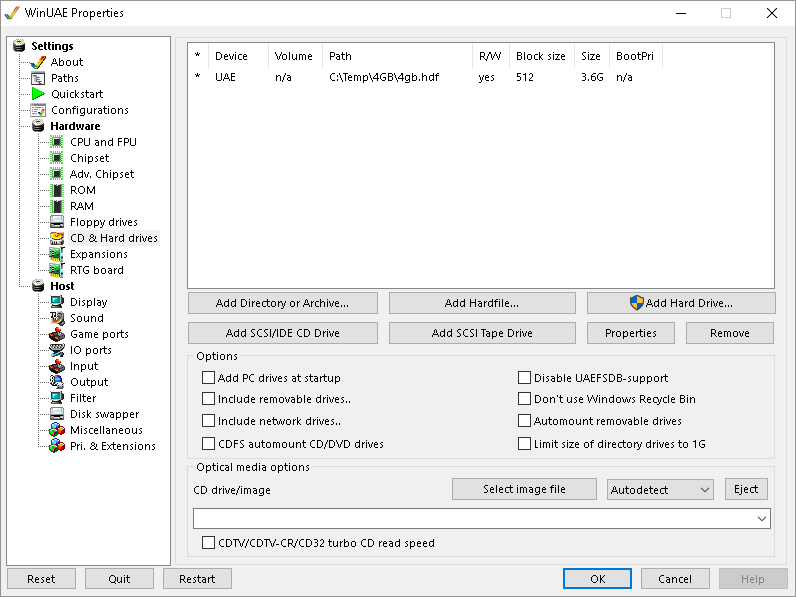
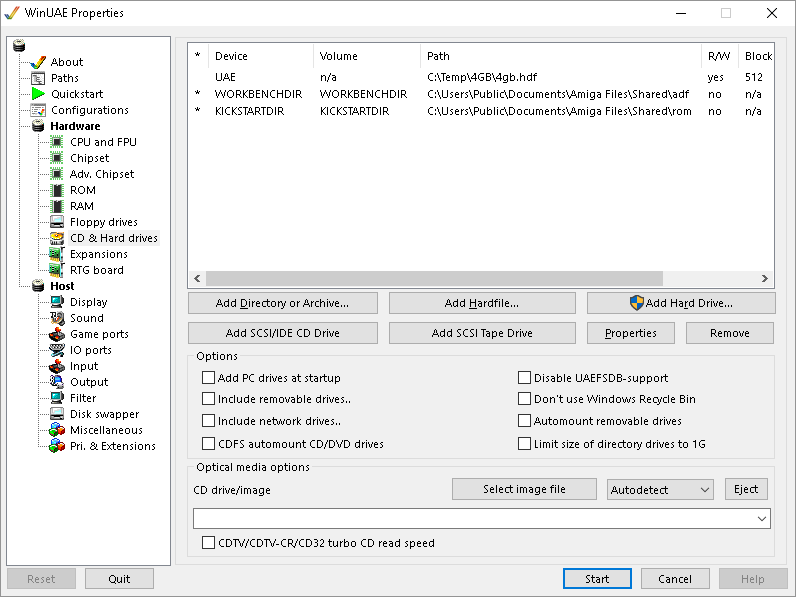
Updated configuring emulator for automated installation section

diff --git a/README.md b/README.md
@@ -518,31 +518,72 @@ Self install can be run in one of following ways:
 1. HstWB Installer Setup: Switch to test mode and run installer.
 2. WinUAE: Start WinUAE using an A1200 configuration with HDF files and/or directories added.
 3. UAE4ARM: Start UAE4ARM using an A1200 configuration with HDF files and/or directories added.
-4. Real Amiga: Use 'Writing an image to CF/SD card using Win32DiskImager' example 
+4. Real Amiga: Use 'Writing an image to CF/SD card using Win32DiskImager' example and skip automated installation, which is only for emulators.
 
-### Configuring emulator for automated installation
+### Configuring emulator for automated installation of Workbench and Kickstart roms
 
 Installation of Workbench and Kickstart roms can be automated, when running self install in an emulator.
 
 To automate installation of Workbench, add a harddrive as directory in the emulator containing Workbench adf files.
 The harddrive directory must have device name "WORKBENCHDIR" without quotes.
-If Cloanto Amiga Forever is installed, then the directory "c:\Users\Public\Documents\Amiga Files\Shared\adf\" can be used.
+Users with Cloanto Amiga Forever installed can use the directory "c:\Users\Public\Documents\Amiga Files\Shared\adf", which contains Workbench 3.1 adf files self install will identify and use.
 
-The example below describes how to do this using WinUAE.
+To automate installation of Kickstart roms for WHDLoad, add a harddrive as directory in the emulator containing Kickstart rom files.
+The harddrive directory must have device name "KICKSTARTDIR" without quotes.
+Users with Cloanto Amiga Forever installed can use the directory "c:\Users\Public\Documents\Amiga Files\Shared\rom", which contains Kickstart rom files self install will identify and use.
+
+The example below describes how to do configure WinUAE for automated installation, but can be done with other emulators like FS-UAE or UAE4ARM adding harddrive directories with correct device names "WORKBENCHDIR" and "KICKSTARTDIR".
 
 **1. Start WinUAE**
 
-Start WinUAE and use an A1200 configuration
+Configure harddrive directories in WinUAE one of following ways:
 
-Configure WinUAE harddrives in WinUAE with Workbench adf and Kickstart rom files
+1. Using HstWB Installer test mode press F12 after WinUAE is launched to configure harddrive directories.
+2. Manually start WinUAE use own configuration with image HDF files and/or harddrive directories added.
+
+**2. Configure harddrive directories**
+
+Click "CD & Hard drives".
 
 ![self_install_winuae_harddrives_start.png](screenshots/self_install_winuae_harddrives_start.png?raw=true)
 
+**3. Add WORKBENCHDIR harddrive directory**
+
+Click "Add Directory or Archive".
+
+Enter "WORKBENCHDIR" in device name and volume label textboxes.
+
+Uncheck "Read/Write" and "Bootable" checkboxes.
+
+Click "Select Directory" and select directory "c:\Users\Public\Documents\Amiga Files\Shared\adf".
+
+Click "OK" to add the directory as a harddrive.
+
 ![self_install_winuae_workbenchdir.png](screenshots/self_install_winuae_workbenchdir.png?raw=true)
+
+**4. Add KICKSTARTDIR harddrive directory**
+
+Click "Add Directory or Archive".
+
+Enter "KICKSTARTDIR" in device name and volume label textboxes.
+
+Uncheck "Read/Write" and "Bootable" checkboxes.
+
+Click "Select Directory" and select directory "c:\Users\Public\Documents\Amiga Files\Shared\rom".
+
+Click "OK" to add the directory as a harddrive.
 
 ![self_install_winuae_kickstartdir.png](screenshots/self_install_winuae_kickstartdir.png?raw=true)
 
+**5. Verify configured harddrives**
+
+Verify WinUAE has image HDF files and/or directories added together with "WORKBENCHDIR" and "KICKSTARTDIR" directory harddrives.
+
 ![self_install_winuae_harddrives_done.png](screenshots/self_install_winuae_harddrives_done.png?raw=true)
+
+**6. Reset WinUAE**
+
+Click "Reset" to reset emulator, which will make self install detect added harddrive directories for automated installation.
 
 ### Running self install
 
